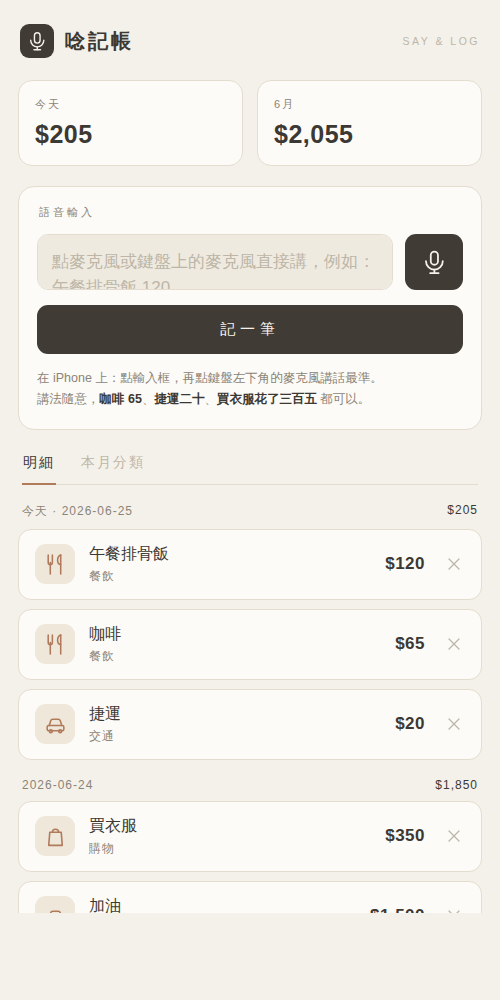
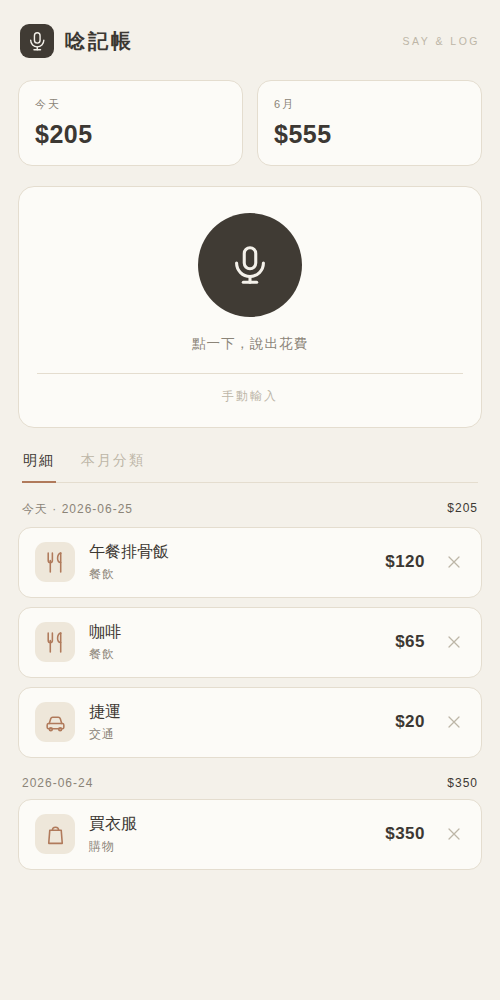
錄音優先：點麥克風→講話→自動記帳 (#7)
* 新增 iPhone 語音記帳 PWA「唸記帳」：講一句話自動抓金額分類項目、離線可用、可加到主畫面

- expense/index.html：單檔 PWA，規則式中文解析（含台式口語三百五=350、八千五=8500）
- 6 大分類自動歸類、加入前可手動修正金額/分類/項目/日期
- 明細按日分組顯示每日小計與今天/本月合計、本月分類長條圖
- localStorage 本地儲存、無後端無帳號、Service Worker 離線快取
- manifest + apple-touch-icon + 多尺寸圖示

Claude-Session: https://claude.ai/code/session_01JAXXW2tNwUQGqN2nezpKxZ

* 加 GitHub Pages 自動部署 workflow，根目錄轉址到記帳器

- .github/workflows/deploy-pages.yml：自動開啟並部署 Pages（enablement: true）
- 根 index.html 轉址到 expense/，讓 Pages 網址直接進入唸記帳

Claude-Session: https://claude.ai/code/session_01JAXXW2tNwUQGqN2nezpKxZ

* 唸記帳改版：亮色簡約未來感 UI、移除所有 emoji 改用線條 SVG 圖示

- 全新亮色主題（indigo→violet 漸層、白卡片、柔和陰影、glow）
- 分類/麥克風/刪除全部換成線條 SVG 圖示，零 emoji
- 金額用 tabular-nums、標籤小字母距、輸入框 focus 光暈
- App 圖示與 manifest 配色改為亮色未來感
- README 同步去除 emoji

Claude-Session: https://claude.ai/code/session_01JAXXW2tNwUQGqN2nezpKxZ

* 唸記帳改成無印風：米白紙感、大地色、無紫色

- 配色改為溫潤紙白底（#f4f1ea）＋炭墨主按鈕＋單一陶土色點綴，移除紫色與漸層
- 細線框、底線式分頁、放大字距留白，更安靜的無印感
- 圖示底色改暖色淺調、線條改細；App 圖示與 manifest 同步改紙白＋炭墨麥克風
- Service Worker 快取版本升到 v3，讓裝置自動更新

Claude-Session: https://claude.ai/code/session_01JAXXW2tNwUQGqN2nezpKxZ

* 修正 App 圖示半黑問題＋支援捷徑/小工具語音帶入

- 小尺寸 PNG 之前被 headless 截成半透明，iOS 補成黑色（半黑圖示）
- 改用單一滿版不透明的 512 圖示當 apple-touch-icon，iOS 自行縮放切圓角
- 移除壞掉的 icon-180/192，manifest 與 sw 改指向 512，快取升 v4
- index.html 新增 ?say= 參數：捷徑用 Dictate Text 帶入文字即自動解析跳確認卡

Claude-Session: https://claude.ai/code/session_01JAXXW2tNwUQGqN2nezpKxZ

* 圖示快取根治：sw 改 network-first、apple-touch-icon 加版本號強制重抓

- 之前圖示半截是舊快取造成：Safari/SW 仍用舊網頁指向被截斷的舊圖
[…]

diff --git a/expense/index.html b/expense/index.html
@@ -45,24 +45,27 @@
   .sumbox .k{font-size:11px; color:var(--sub); letter-spacing:2px;}
   .sumbox .v{font-size:25px; font-weight:600; margin-top:8px; font-variant-numeric:tabular-nums; letter-spacing:.5px; color:var(--txt);}
 
-  .mic-card{background:var(--card); border:1px solid var(--line); border-radius:16px; padding:18px; margin:8px 0 20px;}
-  .caplabel{font-size:11px; color:var(--sub); letter-spacing:3px; text-transform:uppercase; margin:0 2px 14px;}
-  .mic-row{display:flex; gap:12px; align-items:stretch;}
-  #raw{flex:1 1 0; min-width:0; width:100%; background:var(--soft); color:var(--txt);
+  .mic-card{background:var(--card); border:1px solid var(--line); border-radius:16px; padding:22px 18px; margin:8px 0 20px; text-align:center;}
+  .bigrec{display:flex; align-items:center; justify-content:center; width:104px; height:104px; margin:4px auto 0;
+    border:none; border-radius:50%; background:var(--ink); color:var(--paper); transition:transform .12s, background .2s;}
+  .bigrec .i{width:46px; height:46px; stroke-width:1.6;}
+  .bigrec:active{transform:scale(.95);}
+  .bigrec.live{background:var(--accent); animation:pulse 1.2s infinite;}
+  @keyframes pulse{0%,100%{box-shadow:0 0 0 0 rgba(176,122,91,.45)} 50%{box-shadow:0 0 0 16px rgba(176,122,91,0)}}
+  .reclabel{font-size:13.5px; color:var(--sub); letter-spacing:1px; margin:16px 0 2px; line-height:1.6;}
+  .manual{margin-top:18px; border-top:1px solid var(--line); padding-top:14px; text-align:left;}
+  .manual summary{font-size:12px; color:var(--faint); letter-spacing:2px; cursor:pointer; list-style:none; text-align:center;}
+  .manual summary::-webkit-details-marker{display:none;}
+  .manual[open] summary{margin-bottom:12px;}
+  #raw{width:100%; background:var(--soft); color:var(--txt);
     border:1px solid var(--line); border-radius:11px; padding:14px; font-size:17px; resize:none;
     min-height:56px; line-height:1.5; font-family:inherit; transition:border-color .15s, box-shadow .15s;}
   #raw:focus{outline:none; border-color:var(--accent); box-shadow:0 0 0 3px var(--accentSoft);}
   #raw::placeholder{color:var(--faint);}
-  .micbtn{width:58px; flex:0 0 auto; border:none; border-radius:11px; background:var(--ink);
-    color:var(--paper); display:flex; align-items:center; justify-content:center; font-size:23px; transition:transform .12s, background .2s;}
-  .micbtn:active{transform:scale(.95);}
-  .micbtn.live{background:var(--accent); animation:pulse 1.2s infinite;}
-  @keyframes pulse{0%,100%{box-shadow:0 0 0 0 rgba(176,122,91,.4)} 50%{box-shadow:0 0 0 11px rgba(176,122,91,0)}}
-  .hint{font-size:12.5px; color:var(--sub); margin-top:14px; line-height:1.7;}
-  .hint b{color:var(--txt); font-weight:600;}
-  .addbtn{width:100%; margin-top:15px; border:none; border-radius:11px; padding:15px;
+  .addbtn{width:100%; margin-top:12px; border:none; border-radius:11px; padding:15px;
     background:var(--ink); color:var(--paper); font-size:15px; font-weight:500; letter-spacing:5px; transition:opacity .15s;}
   .addbtn:active{opacity:.85;}
+  .mic-card .review{text-align:left;}
 
   /* 解析確認卡 */
   .review{background:var(--soft); border:1px solid var(--line); border-radius:13px; padding:16px; margin-top:16px; display:none;}
@@ -122,6 +125,8 @@
     background:var(--ink); color:var(--paper); padding:11px 22px; border-radius:999px; font-size:14px; letter-spacing:1px;
     opacity:0; transition:opacity .2s, transform .2s; pointer-events:none; z-index:50;}
   .toast.show{opacity:1; transform:translateX(-50%) translateY(0);}
+  .toast.act{pointer-events:auto;}
+  .toast .undo{margin-left:16px; color:#e7b07e; font-weight:600;}
 </style>
 </head>
 <body>
@@ -140,18 +145,16 @@
   </div>
 
   <div class="mic-card">
-    <div class="caplabel">語音輸入</div>
-    <div class="mic-row">
-      <textarea id="raw" rows="1" placeholder="點麥克風或鍵盤上的麥克風直接講，例如：午餐排骨飯 120"></textarea>
-      <button class="micbtn" id="micBtn" aria-label="語音">
-        <svg class="i" viewBox="0 0 24 24"><rect x="9" y="3" width="6" height="11" rx="3"/><path d="M5 11a7 7 0 0 0 14 0"/><path d="M12 18v3"/><path d="M8.5 21h7"/></svg>
-      </button>
-    </div>
-    <button class="addbtn" id="parseBtn">記一筆</button>
-    <div class="hint" id="hint">
-      在 iPhone 上：點輸入框，再點鍵盤左下角的麥克風講話最準。<br>
-      講法隨意，<b>咖啡 65</b>、<b>捷運二十</b>、<b>買衣服花了三百五</b> 都可以。
-    </div>
+    <button class="bigrec" id="recBtn" aria-label="開始說話">
+      <svg class="i" viewBox="0 0 24 24"><rect x="9" y="3" width="6" height="11" rx="3"/><path d="M5 11a7 7 0 0 0 14 0"/><path d="M12 18v3"/><path d="M8.5 21h7"/></svg>
+    </button>
+    <div class="reclabel" id="recLabel">點一下，說出花費</div>
+
+    <details class="manual">
+      <summary>手動輸入</summary>
+      <textarea id="raw" rows="1" placeholder="例如：午餐排骨飯 120"></textarea>
+      <button class="addbtn" id="parseBtn">記一筆</button>
+    </details>
 
     <!-- 解析確認卡 -->
     <div class="review" id="review">
@@ -276,23 +279,50 @@ function parse(text){
   return {amount, cat, note, raw};
 }
 
-/* ============ 語音（Web Speech，支援的瀏覽器才用） ============ */
+/* ============ 語音：點一下→講→自動記帳（Web Speech 支援時） ============ */
 const SR = window.SpeechRecognition || window.webkitSpeechRecognition;
 let rec=null, listening=false;
-const micBtn=document.getElementById('micBtn');
+const recBtn=document.getElementById('recBtn');
+const recLabel=document.getElementById('recLabel');
 const rawEl=document.getElementById('raw');
+const manualBox=document.querySelector('.manual');
+
+function setLive(b){
+  listening=b; recBtn.classList.toggle('live',b);
+  recLabel.textContent = b ? '聆聽中…說完停一下就好' : '點一下，說出花費';
+}
 function startRec(){
-  if(!SR){ rawEl.focus(); toast('此瀏覽器請用鍵盤的麥克風聽寫'); return; }
+  if(!SR){ manualBox.open=true; rawEl.focus(); toast('此裝置請用下方手動輸入'); return; }
   try{
     rec=new SR(); rec.lang='zh-TW'; rec.interimResults=true; rec.continuous=false;
     let finalText='';
-    rec.onresult=e=>{ let t=''; for(let i=0;i<e.results.length;i++) t+=e.results[i][0].transcript; rawEl.value=t; finalText=t; };
-    rec.onend=()=>{ listening=false; micBtn.classList.remove('live'); if(finalText.trim()) doParse(); };
-    rec.onerror=()=>{ listening=false; micBtn.classList.remove('live'); rawEl.focus(); };
-    rec.start(); listening=true; micBtn.classList.add('live');
-  }catch(e){ rawEl.focus(); }
+    rec.onresult=e=>{ let t=''; for(let i=0;i<e.results.length;i++) t+=e.results[i][0].transcript; finalText=t; recLabel.textContent=t||'聆聽中…'; };
+    rec.onerror=()=>{ setLive(false); recLabel.textContent='沒聽到，再點一下試試'; };
+    rec.onend=()=>{
+      setLive(false);
+      const t=finalText.trim();
+      if(!t){ recLabel.textContent='沒聽到，再點一下試試'; return; }
+      const r=parse(t);
+      if(r.amount!=null){ commitDirect(r); }
+      else{ // 沒聽到金額 → 開手動確認卡讓你補
+        rawEl.value=t; rawEl.style.height='auto'; rawEl.style.height=rawEl.scrollHeight+'px';
+        manualBox.open=true; doParse(); recLabel.textContent='沒聽到金額，幫你開啟確認';
+      }
+    };
+    rec.start(); setLive(true);
+  }catch(e){ setLive(false); manualBox.open=true; rawEl.focus(); }
 }
-micBtn.addEventListener('click',()=>{ if(listening){ rec&&rec.stop(); } else startRec(); });
+recBtn.addEventListener('click',()=>{ if(listening){ try{rec.stop()}catch(e){} } else startRec(); });
+
+/* 直接記帳（語音解析成功時，不用按確認；附「撤銷」） */
+function commitDirect(r){
+  const id='e'+Date.now()+Math.floor(Math.random()*1e4);
+  entries.unshift({id, ts:Date.now(), amount:r.amount, category:r.cat,
+    note:(r.note||catById(r.cat).name), raw:r.raw});
+  save(entries); render();
+  recLabel.textContent='已記！點麥克風記下一筆';
+  toast('已記　'+(r.note||catById(r.cat).name)+'　'+fmt(r.amount), id);
+}
 
 /* ============ 解析 → 確認卡 ============ */
 let pending=null;
@@ -409,7 +439,17 @@ document.querySelectorAll('.tab').forEach(t=>{
   };
 });
 
-function toast(msg){ const t=document.getElementById('toast'); t.textContent=msg; t.classList.add('show'); clearTimeout(t._h); t._h=setTimeout(()=>t.classList.remove('show'),1600); }
+function toast(msg, undoId){
+  const t=document.getElementById('toast'); t.innerHTML='';
+  t.appendChild(document.createTextNode(msg));
+  if(undoId){
+    const u=document.createElement('span'); u.className='undo'; u.textContent='撤銷';
+    u.onclick=()=>{ del(undoId); t.classList.remove('show','act'); recLabel.textContent='已撤銷'; };
+    t.appendChild(u); t.classList.add('act');
+  } else t.classList.remove('act');
+  t.classList.add('show'); clearTimeout(t._h);
+  t._h=setTimeout(()=>t.classList.remove('show','act'), undoId?4000:1600);
+}
 
 /* 自動長高的輸入框 */
 rawEl.addEventListener('input',()=>{ rawEl.style.height='auto'; rawEl.style.height=rawEl.scrollHeight+'px'; });
@@ -422,9 +462,13 @@ render();
     const p=new URLSearchParams(location.search);
     const said=p.get('say')||p.get('t')||p.get('text');
     if(said && said.trim()){
-      rawEl.value=said.trim();
-      rawEl.style.height='auto'; rawEl.style.height=rawEl.scrollHeight+'px';
-      doParse();
+      const r=parse(said.trim());
+      if(r.amount!=null){ commitDirect(r); }
+      else{
+        rawEl.value=said.trim();
+        rawEl.style.height='auto'; rawEl.style.height=rawEl.scrollHeight+'px';
+        manualBox.open=true; doParse();
+      }
       // 清掉網址參數，避免重整時重複帶入
       history.replaceState(null,'',location.pathname);
     }

diff --git a/expense/sw.js b/expense/sw.js
@@ -1,5 +1,5 @@
 // 唸記帳 service worker — network-first，確保永遠拿到最新版（離線時才用快取）
-const CACHE = 'saymoney-v5';
+const CACHE = 'saymoney-v6';
 const ASSETS = [
   './',
   './index.html',